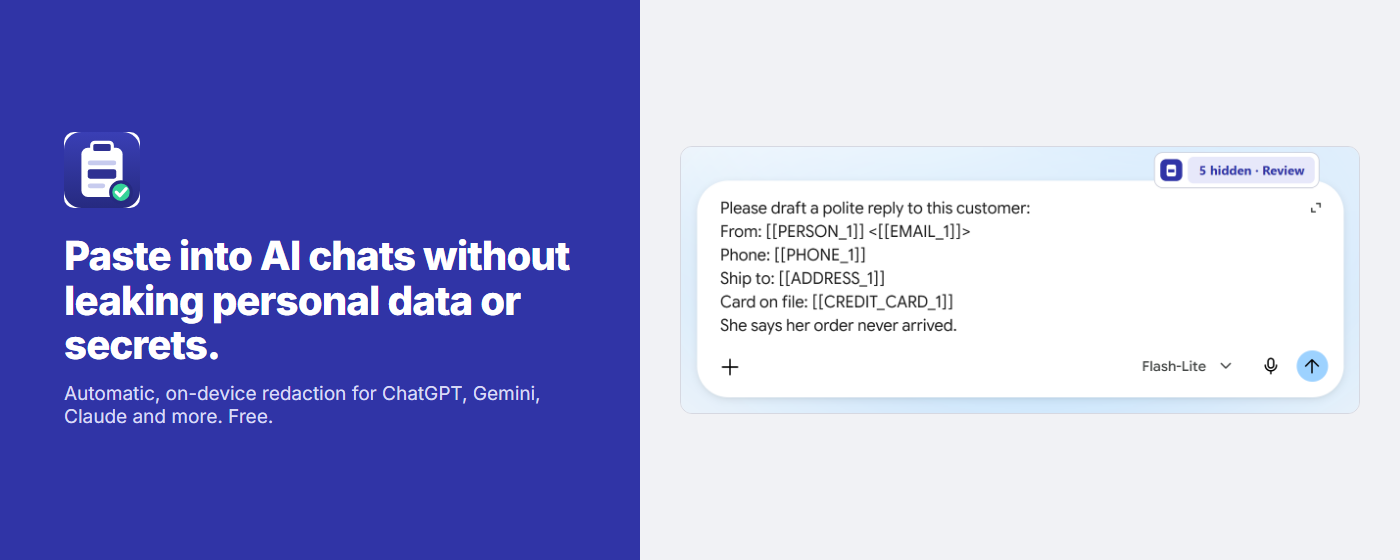
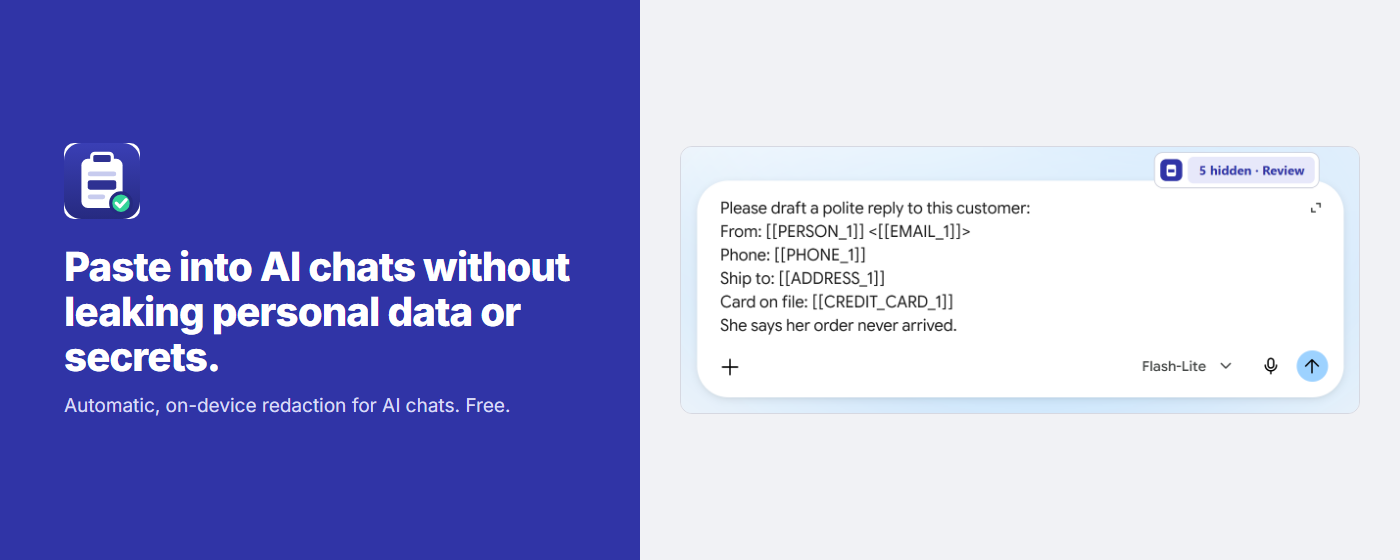
Version 2.0.4: store listing without the list of AI chat names
The Chrome Web Store rejected 2.0.3 for excessive keywords. The short and
detailed descriptions name one example only, screenshot 5 and the marquee
no longer list the supported sites, and screenshot 5 shows the "What to
redact" screen instead of the AI sites list. Ships the review hardening
(stable ONNX runtime, security policy) as 2.0.4.

Changed region(s): [[0.0307, 0.425, 0.43, 0.6679], [0.0307, 0.6679, 0.3993, 0.7589], [0.0307, 0.2429, 0.1229, 0.3946]]

diff --git a/scripts/store-assets.js b/scripts/store-assets.js
@@ -29,7 +29,7 @@ const outDir = join(root, "store-assets");
 const iconDir = join(root, "static", "assets");
 const extensionPath = join(root, "dist", "safepaste-ai");
 const captureDir = join(root, "store-assets", "captures");
-const CAPTURE_FILES = ["customer", "review", "code", "popup", "popup-sites"];
+const CAPTURE_FILES = ["customer", "review", "code", "popup", "popup-types"];
 const PASTE = process.platform === "darwin" ? "Meta+V" : "Control+V";
 const SELECT_ALL = process.platform === "darwin" ? "Meta+A" : "Control+A";
 
@@ -179,11 +179,13 @@ async function captureGemini() {
     await popup.addStyleTag({ content: ".view { scrollbar-width: none; }" });
     await popup.waitForTimeout(600);
     await popup.locator(".app").screenshot({ path: join(captureDir, "popup.png") });
-    await popup.click("#openSites");
+    // "What to redact", not "AI sites": a screenshot listing many AI brands
+    // counts as keyword spam in the store.
+    await popup.click("#openTypes");
     // Wait for the slide-in to finish.
-    await popup.waitForSelector("#sitesView.here");
+    await popup.waitForSelector("#typesView.here");
     await popup.waitForTimeout(600);
-    await popup.locator(".app").screenshot({ path: join(captureDir, "popup-sites.png") });
+    await popup.locator(".app").screenshot({ path: join(captureDir, "popup-types.png") });
   } finally {
     await context.close();
   }
@@ -345,8 +347,8 @@ async function renderStoreImages(shots) {
   ), 1280, 800, "screenshot-4-1280x800.png");
 
   await render(shot(
-    { eyebrow: "Private by design", title: "Everything stays on your computer.", text: "No account and no servers. Choose how strict to be, what to hide, and where SafePaste works.", points: ["Works on ChatGPT, Gemini, Claude, Perplexity, Mistral, Grok and Poe", "Blocks a paste it cannot check, never sends it unchecked", "Free, with no tracking"] },
-    `<div class="pair"><img class="ui popup" src="${shots.popup}" alt=""><img class="ui popup" src="${shots["popup-sites"]}" alt=""></div>`
+    { eyebrow: "Private by design", title: "Everything stays on your computer.", text: "No account and no servers. Choose how strict to be, what to hide, and where SafePaste works.", points: ["Works on popular AI chats, more with one click", "Blocks a paste it cannot check, never sends it unchecked", "Free, with no tracking"] },
+    `<div class="pair"><img class="ui popup" src="${shots.popup}" alt=""><img class="ui popup" src="${shots["popup-types"]}" alt=""></div>`
   ), 1280, 800, "screenshot-5-1280x800.png");
 
   await render(`<div class="promo">
@@ -356,7 +358,7 @@ async function renderStoreImages(shots) {
   </div>`, 440, 280, "promo-small-440x280.png");
 
   await render(`<div class="marquee">
-    <div class="m-copy">${mark(76)}<h1>Paste into AI chats without leaking personal data or secrets.</h1><p>Automatic, on-device redaction for ChatGPT, Gemini, Claude and more. Free.</p></div>
+    <div class="m-copy">${mark(76)}<h1>Paste into AI chats without leaking personal data or secrets.</h1><p>Automatic, on-device redaction for AI chats. Free.</p></div>
     <div class="m-stage"><img class="ui" src="${shots.customer}" alt=""></div>
   </div>`, 1400, 560, "marquee-1400x560.png");
 

diff --git a/STORE_LISTING.md b/STORE_LISTING.md
@@ -2,19 +2,21 @@
 
 Copy each section into the matching field of the Chrome Web Store Developer Dashboard.
 
+Store policy: do not list several product or brand names in the public description, short description or images (keyword spam). Version 2.0.3 was rejected for a list of seven AI chat names. Name at most one example; the reviewer-only permission justifications below may name the sites.
+
 ## Name
 
 SafePaste AI
 
 ## Short Description (132 characters max)
 
-Hides names, emails, card numbers and API keys before your paste reaches ChatGPT, Gemini or Claude. Runs on your computer.
+Hides names, emails, card numbers and API keys before your paste reaches an AI chat like ChatGPT. Runs on your computer.
 
 ## Detailed Description
 
 Paste into AI chats without giving away personal data or secrets.
 
-SafePaste AI checks text the moment you paste or drop it into ChatGPT, Gemini or Claude, and replaces sensitive values with placeholders such as [[PERSON_1]], [[EMAIL_1]] or [[CREDIT_CARD_1]] before the AI sees them. Everything happens inside your browser: no account, no servers, no tracking.
+SafePaste AI checks text the moment you paste or drop it into an AI chat, and replaces sensitive values with placeholders such as [[PERSON_1]], [[EMAIL_1]] or [[CREDIT_CARD_1]] before the AI sees them. Everything happens inside your browser: no account, no servers, no tracking.
 
 WHAT IT HIDES
 • Names, companies, street addresses and places
@@ -36,12 +38,12 @@ ALWAYS IN CONTROL
 • If a paste cannot be checked, it is blocked rather than sent unchecked. Links that hide a token in rich text are pasted as plain text.
 
 WORKS ON
-ChatGPT, Gemini and Claude, plus Perplexity, Mistral Le Chat, Grok and Poe, which you can switch on with one click.
+The most popular AI chat websites out of the box. More AI chat sites can be switched on with one click in the settings.
 
 OPTIONAL: ENHANCED NAME DETECTION
 A small AI model (about 66 MB, downloaded once from Hugging Face and stored inside Chrome) finds names the built-in rules miss. It runs on your computer, is off by default, and can be deleted from the settings.
 
-SafePaste AI is a safety layer, not a compliance guarantee. It is independent and not affiliated with OpenAI, Google, Anthropic, Perplexity, Mistral AI, xAI or Quora.
+SafePaste AI is a safety layer, not a compliance guarantee. It is independent and not affiliated with any AI chat service it works with.
 
 ## Category
 

diff --git a/CHANGELOG.md b/CHANGELOG.md
@@ -1,5 +1,11 @@
 # Changelog
 
+## 2.0.4
+
+- Stable release of the ONNX runtime (1.30.0) for the optional name model, instead of a pre-release build; the runtime's default download address is rewritten to the packaged copy at build time.
+- Security policy (SECURITY.md) with private vulnerability reporting.
+- Store listing and images no longer list the supported AI chat sites by name.
+
 ## 2.0.3
 
 Rebuilt from the ground up since 1.0.2.
@@ -26,4 +32,4 @@ Rebuilt from the ground up since 1.0.2.
 - Redesigned settings: fixed size, explained features, flat design with WCAG AA contrast, dark mode.
 
 ### Under the hood
-- Third-party licence notices, a security policy, and a stable release of the ONNX runtime instead of a pre-release build.
+- Third-party licence notices.
